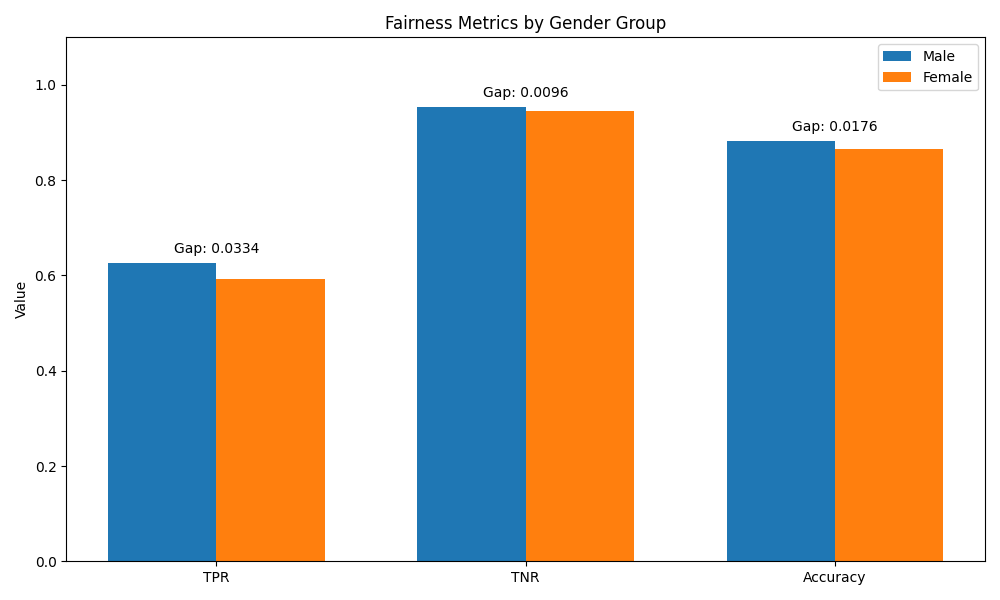
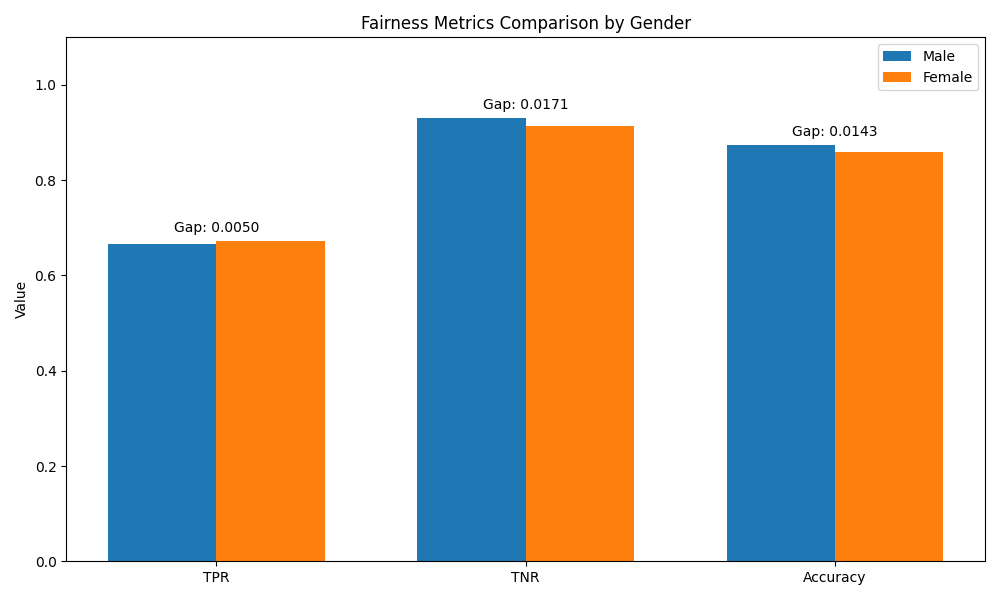
final version

diff --git a/model_DP.py b/model_DP.py
@@ -25,7 +25,7 @@ def load_data(file_path):
     data['person_gender'] = data['person_gender'].map({'male': 1, 'female': 0})
     y = data['loan_status'].values
     sensitive = data['person_gender'].values
-    X = data.drop(columns=['loan_status', 'person_gender'])
+    X = data.drop(columns=['loan_status'])
     return X, y, sensitive
 
 # Load and split data
@@ -57,7 +57,7 @@ l2_norm_clip = 1.0
 batch_size = 250
 epochs = 60
 microbatches = 25
-learning_rate = 0.1
+learning_rate = 0.15
 
 # Build the DP model
 print("\nTraining DP Model...")

diff --git a/final_version.py b/final_version.py
@@ -125,7 +125,15 @@ egr.fit(
     sensitive_features=sensitive_train
 )
 
+# Calculate training accuracy
+y_train_pred = egr.predict(X_train_preprocessed)
+train_accuracy = np.mean(y_train == y_train_pred)
+print(f"\nTraining Accuracy: {train_accuracy:.4f}")
+
+# Calculate testing accuracy
 y_pred = egr.predict(X_test_preprocessed)
+test_accuracy = np.mean(y_test == y_pred)
+print(f"Testing Accuracy: {test_accuracy:.4f}")
 
 # Get probability predictions for ROC curves and TPR analysis
 def get_egr_probas(egr_model, X):
